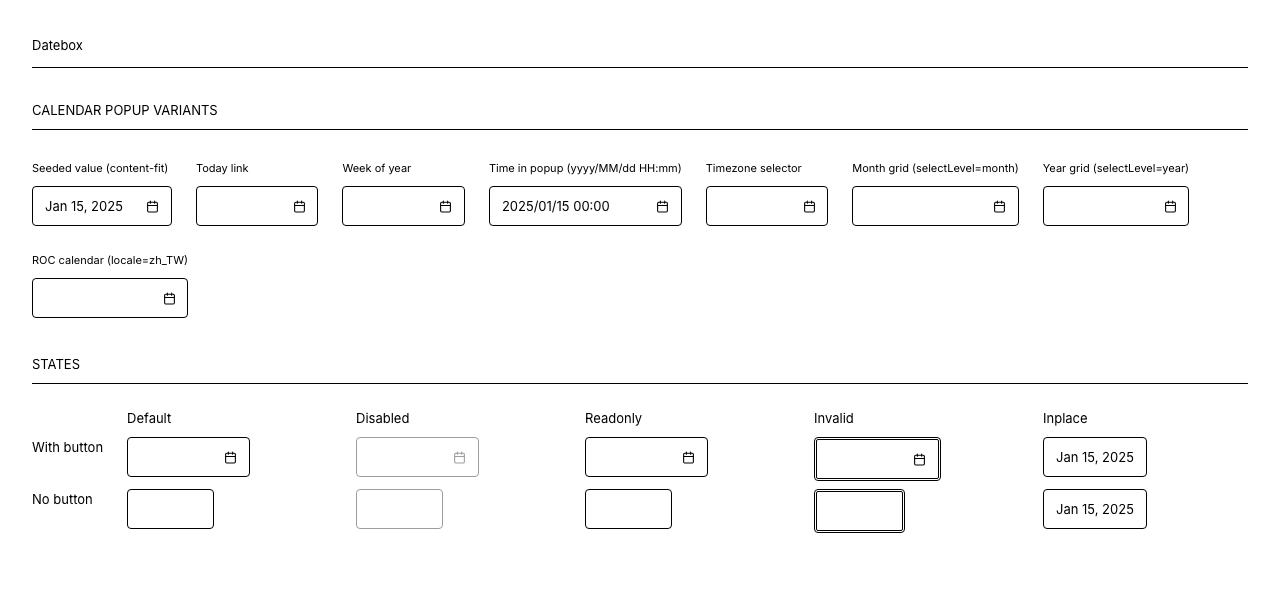
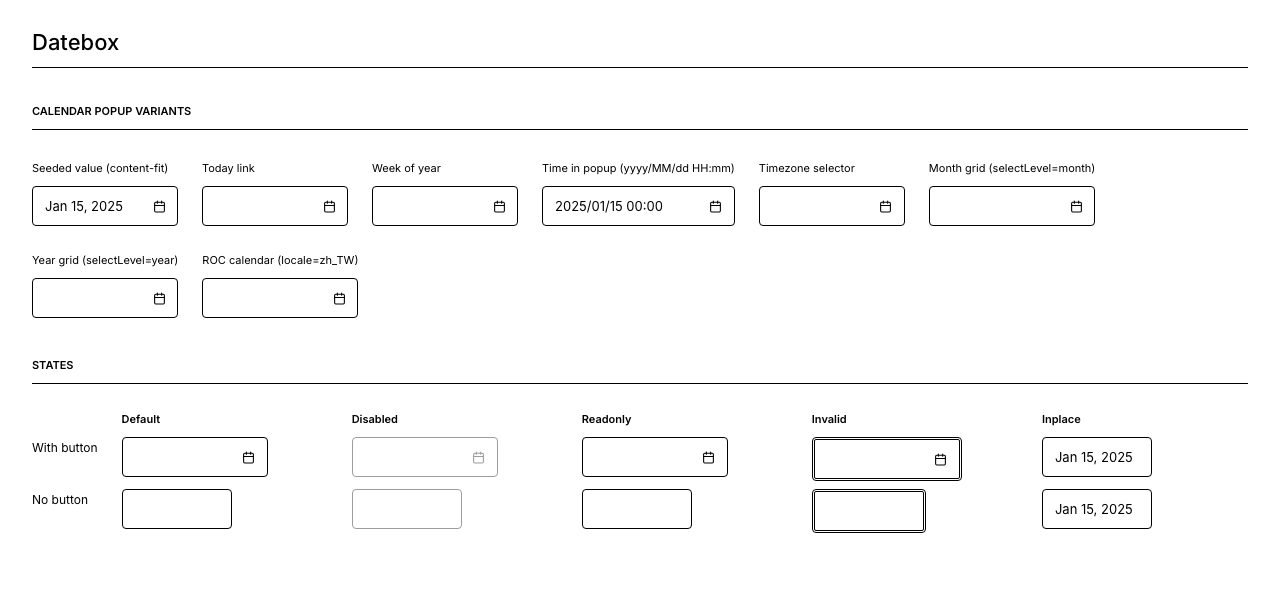
ZK-6112: let datebox and timebox follow cols by dropping field-sizing: content
field-sizing: content makes the browser ignore the input's size attribute,
so cols had no visible effect under Marble. Both inputs always render a
size (Datebox defaults cols to 11, Timebox derives it from the value), so
the width now follows cols as in IceBlue. Formats longer than the default
are clipped unless cols is raised; that core defect is tracked as ZK-6178.

Add a zktest case and update the Playwright test, baselines and docs.

diff --git a/zkpreview/src/test/playwright/screenshot.spec.ts b/zkpreview/src/test/playwright/screenshot.spec.ts
@@ -521,38 +521,26 @@ test.describe('datebox', () => {
     });
   }
 
-  // gap 2026-07-20 (Contract dw1/dw2/M1): the input ships size-less (ZK
-  // ComboWidget.redraw_ writes only class/aria/autocomplete; InputWidget._cols=0).
-  // The old `flex:1;min-width:0` collapsed it to a fixed ~108px that ignored
-  // content — a short date, an empty field, and a long-format date all rendered
-  // the SAME width, and the long format "2025/01/15 00:00" was CLIPPED
-  // (scrollWidth 132 > clientWidth 108). `field-sizing: content` (datebox.css) must
-  // make the input hug its date: short hugs, long grows to fit (no clip), so a
-  // longer value renders wider than a shorter one. Measures the seeded short-format
-  // and seeded long-format dateboxes in pv/datebox-content.zul.
-  // RED before the fix (fixed width, long clipped, long == short); GREEN after.
-  test('input hugs its date content (field-sizing, no clip, tracks length)', async ({ page }) => {
+  // ZK-6112 (Contract dw1/dw2/M1): the input width follows the cols API. ZK renders
+  // cols as the input's `size` (Datebox default 11); `field-sizing: content` made the
+  // browser ignore it, so cols had no effect. A larger cols must render wider and a
+  // smaller cols narrower, and field-sizing must stay at its default (`fixed`).
+  test('input width follows cols (no field-sizing: content)', async ({ page }) => {
     const info = await page.evaluate(() => {
-      const inputs = [...document.querySelectorAll('.z-datebox-input')] as HTMLInputElement[];
-      const seeded = inputs.filter(i => i.value && (i as HTMLElement).offsetParent !== null);
-      const measure = (i?: HTMLInputElement) => i && ({
-        w: Math.round(i.getBoundingClientRect().width),
-        clipped: i.scrollWidth > i.clientWidth + 1,
-        fieldSizing: getComputedStyle(i).getPropertyValue('field-sizing'),
-        value: i.value,
-      });
-      // long-format value contains "/" (yyyy/MM/dd HH:mm); the short default does not.
+      const input = ([...document.querySelectorAll('.z-datebox-input')] as HTMLInputElement[])
+        .find(i => (i as HTMLElement).offsetParent !== null)!;
+      const wgt = (window as any).zk.Widget.$(input);
+      const widthAt = (cols: number) => {
+        wgt.setCols(cols);
+        return Math.round(input.getBoundingClientRect().width);
+      };
       return {
-        short: measure(seeded.find(i => !i.value.includes('/'))),
-        long: measure(seeded.find(i => i.value.includes('/'))),
+        w8: widthAt(8), w30: widthAt(30),
+        fieldSizing: getComputedStyle(input).getPropertyValue('field-sizing'),
       };
     });
-    expect(info.short, 'seeded short-format datebox must be present').toBeTruthy();
-    expect(info.long, 'seeded long-format datebox must be present').toBeTruthy();
-    expect(info.long!.fieldSizing, 'field-sizing: content must be applied').toBe('content');
-    expect(info.long!.clipped, `long-format date "${info.long!.value}" must not be clipped`).toBe(false);
-    expect(info.long!.w, `input width must track content: long ${info.long!.w}px > short ${info.short!.w}px`)
-      .toBeGreaterThan(info.short!.w);
+    expect(info.fieldSizing, 'field-sizing: content must not be applied').not.toBe('content');
+    expect(info.w30, `cols=30 (${info.w30}px) must be wider than cols=8 (${info.w8}px)`).toBeGreaterThan(info.w8);
   });
 });
 
@@ -641,26 +629,24 @@ test.describe('timebox', () => {
     });
   }
 
-  // gap 2026-07-20 (Contract tw1/tw2/M1): same size-less input as datebox, with
-  // the same fixed-width collapse under the old `flex:1;min-width:0`. timebox's
-  // default time fits without clipping, so the clean RED->GREEN proof is the
-  // applied `field-sizing: content` (was the UA default `fixed`) that makes the
-  // input hug its time; the no-clip check guards a future long time format.
-  // Measures the seeded plain timebox in pv/timebox-content.zul.
-  test('input hugs its time content (field-sizing, no clip)', async ({ page }) => {
+  // ZK-6112 (Contract tw1/tw2/M1): same as datebox — the width follows cols
+  // (rendered as `size`; Timebox derives its default from the formatted value).
+  test('input width follows cols (no field-sizing: content)', async ({ page }) => {
     const info = await page.evaluate(() => {
-      const seeded = ([...document.querySelectorAll('.z-timebox-input')] as HTMLInputElement[])
-        .find(i => i.value && (i as HTMLElement).offsetParent !== null);
-      return seeded && ({
-        w: Math.round(seeded.getBoundingClientRect().width),
-        clipped: seeded.scrollWidth > seeded.clientWidth + 1,
-        fieldSizing: getComputedStyle(seeded).getPropertyValue('field-sizing'),
-        value: seeded.value,
-      });
+      const input = ([...document.querySelectorAll('.z-timebox-input')] as HTMLInputElement[])
+        .find(i => (i as HTMLElement).offsetParent !== null)!;
+      const wgt = (window as any).zk.Widget.$(input);
+      const widthAt = (cols: number) => {
+        wgt.setCols(cols);
+        return Math.round(input.getBoundingClientRect().width);
+      };
+      return {
+        w8: widthAt(8), w30: widthAt(30),
+        fieldSizing: getComputedStyle(input).getPropertyValue('field-sizing'),
+      };
     });
-    expect(info, 'seeded timebox must be present').toBeTruthy();
-    expect(info!.fieldSizing, 'field-sizing: content must be applied').toBe('content');
-    expect(info!.clipped, `time "${info!.value}" must not be clipped`).toBe(false);
+    expect(info.fieldSizing, 'field-sizing: content must not be applied').not.toBe('content');
+    expect(info.w30, `cols=30 (${info.w30}px) must be wider than cols=8 (${info.w8}px)`).toBeGreaterThan(info.w8);
   });
 });
 

diff --git a/zul/src/main/resources/web/js/zul/inp/css/datebox.css b/zul/src/main/resources/web/js/zul/inp/css/datebox.css
@@ -39,20 +39,13 @@
     box-shadow: inset 0 0 0 1px var(--zk-datebox-border-color-focus);
 }
 
-/* Content-hug (contract dw1/dw2/M1): ZK emits the <input> with no size/width
-   (InputWidget._cols=0 → ComboWidget.redraw_ writes only class/aria/autocomplete;
-   see components/combo-trio.md). The old `flex:1;min-width:0` collapsed the input to
-   a fixed ~108px that ignored its content — short/empty/long all rendered the same
-   width and long formats like "2025/01/15 00:00" were CLIPPED. `field-sizing: content`
-   makes the input hug its date text (short dates hug; long formats grow to fit — no
-   clipping). `flex: 1 1 auto` (basis = content) still lets an hflex / width-forced
-   field grow to fill its container, so form layouts keep working. The `min-width`
-   floor keeps an empty field a usable click target. Left-aligned (no text-align), so
-   hugging simply trims trailing dead space. Browsers without `field-sizing` fall back
-   to the prior look — degradation, not breakage. */
+/* Width follows the cols API (rendered as the input's `size`, default 11), like IceBlue.
+   `field-sizing: content` is deliberately NOT used: it makes the browser ignore `size`, so
+   cols had no effect. A format longer than the default (e.g. "yyyy/MM/dd HH:mm") is clipped
+   unless the app raises cols. `flex: 1 1 auto` still lets an hflex / width-forced field fill
+   its container; the `min-width` floor keeps a small cols a usable click target. */
 .z-datebox-input {
     flex: 1 1 auto;
-    field-sizing: content;
     min-width: 6.5em;
     border: none;
     background: transparent;

diff --git a/zul/src/main/resources/web/js/zul/inp/css/timebox.css b/zul/src/main/resources/web/js/zul/inp/css/timebox.css
@@ -46,14 +46,13 @@
     box-shadow: inset 0 0 0 1px var(--zk-timebox-border-color-focus);
 }
 
-/* Content-hug (contract tw1/tw2/M1): same size-less input as datebox (see
-   components/combo-trio.md). `field-sizing: content` makes the input hug its time
-   text; `flex: 1 1 auto` (basis = content) still lets an hflex / width-forced field
-   fill its container. The `min-width` floor keeps an empty field a usable target.
-   Left-aligned; degrades to the prior look where `field-sizing` is unsupported. */
+/* Width follows the cols API (rendered as the input's `size`; Timebox derives the default
+   from the value's formatted length), like IceBlue. `field-sizing: content` is deliberately
+   NOT used: it makes the browser ignore `size`, so an explicit cols had no effect.
+   `flex: 1 1 auto` still lets an hflex / width-forced field fill its container; the
+   `min-width` floor keeps a small cols a usable click target. */
 .z-timebox-input {
     flex: 1 1 auto;
-    field-sizing: content;
     min-width: 5em;
     border: none;
     background: transparent;

diff --git a/zktest/src/test/java/org/zkoss/zktest/zats/test2/B110_ZK_6112_DateTimeboxColsTest.java b/zktest/src/test/java/org/zkoss/zktest/zats/test2/B110_ZK_6112_DateTimeboxColsTest.java
@@ -1,0 +1,31 @@
+/* B110_ZK_6112_DateTimeboxColsTest.java
+
+	Purpose:
+
+	Description:
+
+	History:
+		Wed Oct 07 2026, Created for ZK-6112.
+
+Copyright (C) 2026 Potix Corporation. All Rights Reserved.
+*/
+package org.zkoss.zktest.zats.test2;
+
+import static org.junit.jupiter.api.Assertions.assertTrue;
+
+import org.junit.jupiter.api.Test;
+import org.zkoss.test.webdriver.WebDriverTestCase;
+
+public class B110_ZK_6112_DateTimeboxColsTest extends WebDriverTestCase {
+	@Test
+	public void test() {
+		connect();
+		waitResponse();
+		assertTrue(inputWidth("$d8") < inputWidth("$d30"), "datebox cols=8 must be narrower than cols=30");
+		assertTrue(inputWidth("$t8") < inputWidth("$t30"), "timebox cols=8 must be narrower than cols=30");
+	}
+
+	private int inputWidth(String widgetSelector) {
+		return jq(widgetSelector).find("input").outerWidth();
+	}
+}

diff --git a/.claude/skills/zk-component-rules/components/combo-trio.md b/.claude/skills/zk-component-rules/components/combo-trio.md
@@ -22,9 +22,11 @@ Standard pattern: `.z-{c}-disabled` class is added to the button element (`.z-{c
 
 ## Input width: the inner `<input>` ships size-less
 
-ZK emits every combo-trio `<input>` (datebox / timebox / spinner / combobox / bandbox) with **no `size`, `cols`, or `width`** attribute: `InputWidget._cols` defaults to `0` (`getCols()` doc: "non-positive means the same as browser's default"), and `ComboWidget.redraw_` writes only `class` / `aria-*` / `autocomplete` / `value`. So the input's *intrinsic* width is the browser UA default (`size=20` ≈ 20ch) and the *rendered* width is entirely CSS-determined.
+**Not every combo-trio `<input>` is size-less.** `InputWidget.textAttrs_()` writes `size="N"` whenever `cols > 0`, and **datebox and timebox always have one**: the `Datebox` constructor calls `setCols(11)`, and `Timebox.renderProperties` derives the default from the formatted value length (5 when empty). Only inputs left at `_cols = 0` (spinner, combobox, bandbox, and the two `<input>`s of daterangebox) render no `size`, so their *intrinsic* width is the browser UA default (`size=20` ≈ 20ch). `ComboWidget.redraw_` itself writes only `class` / `aria-*` / `autocomplete` / `value`; the `size` comes from `textAttrs_()`.
 
-Consequence for a theme: a `flex: 1; min-width: 0` on the input (a common pattern) collapses it to a **fixed** width inside the shrink-wrapped root that ignores content — a short value, an empty field, and a long-format value all render the same width, and a value longer than that fixed width is **clipped** (measured: datebox `yyyy/MM/dd HH:mm` needs 132px in a 108px input → truncated). Any theme must therefore pick an explicit input-width policy: either let the input **hug its content** (`field-sizing: content` + a `min-width` floor; `flex: 1 1 auto` so it still fills when `hflex`/width-forced) or accept/bound a fixed width. This is structural (true for every theme); *which* components hug is a theme decision — see this theme's `DESIGN.md §10`.
+**`field-sizing: content` makes the browser ignore `size`**, so a theme that applies it to datebox/timebox silently disables the `cols` API (ZK-6112). The default datebox `size=11` clips formats longer than ~11 characters (ZK-6178).
+
+Consequence for a theme: a `flex: 1; min-width: 0` on the input (a common pattern) collapses it to a **fixed** width inside the shrink-wrapped root that ignores content — a short value, an empty field, and a long-format value all render the same width, and a value longer than that fixed width is **clipped** (measured: datebox `yyyy/MM/dd HH:mm` needs 132px in a 108px input → truncated). Any theme must therefore pick an explicit input-width policy: either let the input follow its `size` (datebox/timebox — never `field-sizing: content`, which overrides `cols`), **hug its content** where no `size` is rendered (`field-sizing: content` + a `min-width` floor; `flex: 1 1 auto` so it still fills when `hflex`/width-forced), or accept/bound a fixed width. This is structural (true for every theme); *which* components hug is a theme decision — see this theme's `DESIGN.md §10`.
 
 ## Focus
 

diff --git a/doc/contracts/datebox.md b/doc/contracts/datebox.md
@@ -13,24 +13,20 @@ zk-version: 10.2.1-jakarta
 ## Expected values
 Same input metrics as combobox c1–c8 (just selectors → `.z-datebox-*`). Calendar popup styled separately; cross-reference `calendar` contract.
 
-### Content-fit input width — hug the date, not a fixed collapse (gap 2026-07-20)
-The date `<input>` ships **size-less** (ZK `InputWidget._cols=0` → `ComboWidget.redraw_` writes only
-class/aria/autocomplete; see `components/combo-trio.md`). The former `flex: 1; min-width: 0`
-collapsed it to a **fixed ~108px** that ignored its content — an empty field, a short date and a
-long-format date all rendered the same width, and the long `yyyy/MM/dd HH:mm` value
-("2025/01/15 00:00") was **clipped** (scrollWidth 132 > clientWidth 108). Per `DESIGN.md §10`
-(input-width policy) the input MUST hug its content. No `text-align` is added — the field stays
-left-aligned.
+### Input width follows `cols` (ZK-6112)
+The date `<input>` always renders a `size` (`Datebox` constructor `setCols(11)`; `textAttrs_()` writes
+`size="N"` when `cols > 0`). `field-sizing: content` makes the browser ignore `size`, so an explicit
+`cols` had no effect; Marble therefore does **not** use it on datebox (see `DESIGN.md §10`). A format
+longer than ~11 characters is clipped by the default `cols` unless the app raises it (core defect: ZK-6178).
 
 | id | selector | property | expected |
 |----|----------|----------|----------|
-| dw1 | `.z-datebox-input` | field-sizing | `content` — the input hugs its date text (short dates hug; long formats grow to fit, no clipping). Degrades to the prior look where unsupported (no regression) |
-| dw2 | `.z-datebox-input` | flex + min-width | `flex: 1 1 auto` (basis = content, so it hugs in an auto context yet still **grows to fill** an `hflex`/width-forced root — forms keep working) AND a `min-width` date floor (`~6.5em`) keeping an empty field a usable target. Differs deliberately from daterangebox's `flex: 0 1 auto`, whose two side-by-side inputs must NOT grow |
+| dw1 | `.z-datebox-input` | field-sizing | **not** `content` (default `fixed`) so `size` drives the width |
+| dw2 | `.z-datebox-input` | flex + min-width | `flex: 1 1 auto` (still **grows to fill** an `hflex`/width-forced root) AND a `min-width` date floor (`~6.5em`) keeping a small `cols` a usable target |
 
-**Outcome (M1):** with seeded values, `.z-datebox-input` **width tracks its content** — a longer value
-(long `yyyy/MM/dd HH:mm` format) renders **wider** than a shorter one (default format), and the
-long-format value is **not clipped** (`scrollWidth <= clientWidth`). Guarded by
-`screenshot.spec.ts › datebox › input hugs its date content (field-sizing, no clip, tracks length)`.
+**Outcome (M1):** `cols=30` renders **wider** than `cols=8`. Guarded by
+`screenshot.spec.ts › datebox › input width follows cols (no field-sizing: content)` and
+`B110_ZK_6112_DateTimeboxColsTest`.
 
 ### Timezone `<select>` focus — Mechanism A (gap 2026-07-14)
 The in-popup timezone `<select>` (`.z-datebox-timezone > select`) is a native, intrinsically-sized

diff --git a/doc/spec/DESIGN.md b/doc/spec/DESIGN.md
@@ -202,17 +202,18 @@ The theme honors `@media (forced-colors: active)` (Windows High-Contrast Mode; a
 
 Rule: **table rows are ~52px** (16px padding all sides + 13px text + line-height). Inputs ~39px inner height. Buttons ~35px.
 
-### Input width: fixed-format date/time fields hug their content
+### Input width: datebox / timebox follow the `cols` API
 
-ZK ships every combo-trio input size-less (no `size`/`width`; see `zk-component-rules/components/combo-trio.md`), so the theme must choose a width policy. Marble's choice:
+datebox and timebox always render a `size` on the `<input>` (`Datebox` defaults `cols` to 11; `Timebox` derives it from the formatted value length), so Marble does **not** use `field-sizing: content` on them — it makes the browser ignore `size`, so an explicit `cols` would have no effect (ZK-6112). Width follows `cols`, as in IceBlue. A date format longer than ~11 characters is clipped unless the app raises `cols` (the core defect is tracked as ZK-6178). daterangebox and timepicker do not render a `size`, so they keep a content-hug policy.
 
 | Field | Width behaviour |
 |-------|-----------------|
-| **datebox, timebox, daterangebox** (fixed-format date/time) | **hug content** — `field-sizing: content` + a `min-width` floor (`~6.5em` date, `~5em` time), so the field sizes to its value: short values hug, long formats (e.g. `yyyy/MM/dd HH:mm`) grow to fit instead of clipping. |
+| **datebox, timebox** | **follow `cols`** (rendered as `size`) + a `min-width` floor (`~6.5em` date, `~5em` time). |
+| **daterangebox, timepicker** | **hug content** — `field-sizing: content` + a `min-width` floor, because ZK renders no (or a hardcoded) `size` for them. |
 | **combobox, bandbox** (free-text) | keep the default / container-fill width. Content-hug would resize the box on every keystroke while typing — jarring. |
 | **spinner, doublespinner** (numeric) | keep the default / container-fill width (numeric length is unbounded and typed). |
 
-datebox/timebox use `flex: 1 1 auto` (basis = content, so they hug in an auto context yet still **fill** an `hflex`/width-forced root — forms are unaffected); daterangebox uses `flex: 0 1 auto` because its two side-by-side inputs must not grow.
+datebox/timebox use `flex: 1 1 auto` (basis = `size`, and they still **fill** an `hflex`/width-forced root — forms are unaffected); daterangebox uses `flex: 0 1 auto` because its two side-by-side inputs must not grow.
 
 This is a deliberate divergence from MUI, whose single `OutlinedInput` fills its container (or the UA default) with left-aligned text and no content-hug. MUI has no opinion on a *standalone* date field's width; Marble sizes it to its content so a bare date/time field reads as one compact field rather than a fixed box with dead space, and long formats are never clipped. See contracts `datebox.md` / `timebox.md` / `daterangebox.md` and `doc/skill-gaps.md` (2026-07-20).
 

diff --git a/doc/contracts/timebox.md b/doc/contracts/timebox.md
@@ -13,21 +13,19 @@ zk-version: 10.2.1-jakarta
 ## Expected values
 Same input metrics as combobox c1–c7 (selectors → `.z-timebox-*`).
 
-### Content-fit input width — hug the time, not a fixed collapse (gap 2026-07-20)
-The time `<input>` ships **size-less** (same mechanism as datebox; see `components/combo-trio.md`).
-The former `flex: 1; min-width: 0` collapsed it to a fixed width that ignored content. The default
-time fits without clipping, so the applied `field-sizing` is the primary proof here. Per
-`DESIGN.md §10` (input-width policy) the input MUST hug its content, mirroring datebox. No
-`text-align` is added — the field stays left-aligned.
+### Input width follows `cols` (ZK-6112)
+The time `<input>` always renders a `size` (`Timebox.renderProperties` derives the default `cols` from the
+formatted value length, 5 when empty). Marble does **not** use `field-sizing: content` on it, because that
+makes the browser ignore `size` and an explicit `cols` would have no effect (see `DESIGN.md §10`).
 
 | id | selector | property | expected |
 |----|----------|----------|----------|
-| tw1 | `.z-timebox-input` | field-sizing | `content` — hug the time text; degrades to the prior look where unsupported (no regression) |
-| tw2 | `.z-timebox-input` | flex + min-width | `flex: 1 1 auto` (basis = content, so it hugs in an auto context yet still grows to fill an `hflex`/width-forced root) AND a `min-width` time floor (`~5em`) keeping an empty field a usable target |
+| tw1 | `.z-timebox-input` | field-sizing | **not** `content` (default `fixed`) so `size` drives the width |
+| tw2 | `.z-timebox-input` | flex + min-width | `flex: 1 1 auto` (still grows to fill an `hflex`/width-forced root) AND a `min-width` time floor (`~5em`) |
 
-**Outcome (M1):** with a seeded value, `.z-timebox-input` has `field-sizing: content` applied and its
-content is **not clipped** (`scrollWidth <= clientWidth`). Guarded by
-`screenshot.spec.ts › timebox › input hugs its time content (field-sizing, no clip)`.
+**Outcome (M1):** `cols=30` renders **wider** than `cols=8`. Guarded by
+`screenshot.spec.ts › timebox › input width follows cols (no field-sizing: content)` and
+`B110_ZK_6112_DateTimeboxColsTest`.
 
 ## States to evaluate
 - [ ] default, hover, focus, disabled, readonly, invalid
